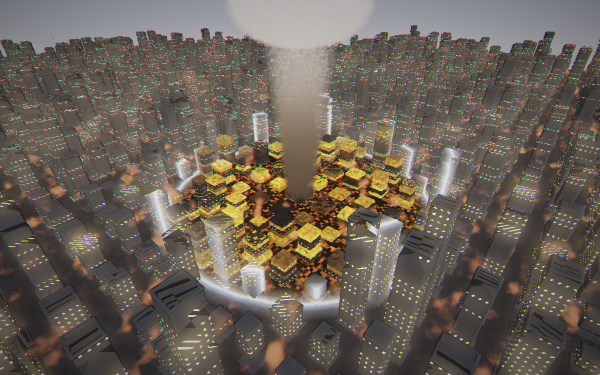
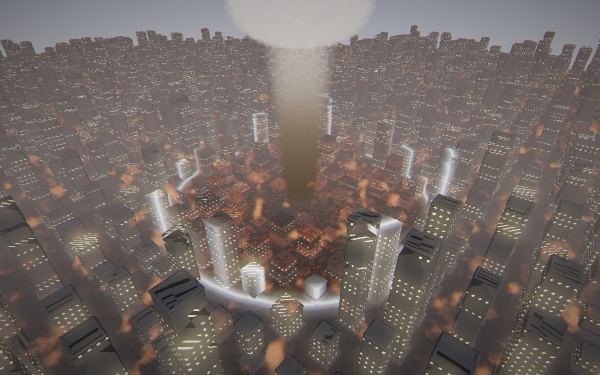
nuke_city+suburb: realism 2 — temperature-graded fires + aerial dust haze
- Fires are now multi-scale (coarse plumes broken by fine cracks) and
  temperature-graded (hot yellow-white cores -> deep-red edges) with flicker, so
  the rubble reads as chaotic burning debris rather than uniform glowing tops.
- Aerial perspective: a subtle warm dust haze thickens with distance (fireball-
  tinted near GZ) so the far skyline recedes into a dusty pall — depth without
  washing out the near burning crater.
- Applies to both nuke_city and nuke_suburb; heroes re-rendered.

Claude-Session: https://claude.ai/code/session_01Sg2M1pJjrHFa9nHHDGVdLP

Changed region(s): [[0.0, 0.0587, 1.0, 0.8507], [0.96, 0.7333, 0.99, 0.7627]]

diff --git a/warp_shaders/blast/render.py b/warp_shaders/blast/render.py
@@ -501,13 +501,18 @@ def render_blast_kernel(img: wp.array2d(dtype=wp.vec3), cam: Camera, sun: wp.vec
             lit = win * wp.step(lh - 0.5) * standing
             wc = wp.vec3(1.0, 0.80, 0.46) + wp.vec3(0.0, 0.06, 0.22) * (lh - 0.5)
             col = col + wc * (lit * 1.9)
-            # collapsed buildings SMOULDER — patchy fires broken up by noise so the
-            # rubble reads as scattered burning debris, not a uniform glowing top
+            # collapsed buildings SMOULDER — multi-scale patchy fires: coarse plumes
+            # broken by fine cracks so the rubble reads as chaotic burning debris,
+            # not a uniform glowing top, and temperature-graded (hot core -> cool edge)
             fh = hash21(wp.vec2(idx * 5.3 - fl * 2.0, idz * 3.7 + fl))
-            turb = wp.clamp(0.35 + 0.75 * fbm_perlin3(p * 0.55, 3), 0.0, 1.0)
-            ember = collapse * wp.smoothstep(0.32, 0.95, fh) * turb
-            fire = wp.vec3(1.0, 0.30, 0.06) + wp.vec3(0.0, 0.36, 0.0) * fh   # deep orange->amber
-            col = col + fire * (ember * 2.7)
+            coarse = wp.clamp(0.35 + 0.8 * fbm_perlin3(p * 0.5, 3), 0.0, 1.0)
+            fine = wp.clamp(0.25 + 0.85 * fbm_perlin3(p * 2.3, 2), 0.0, 1.0)   # cracks
+            ember = collapse * wp.smoothstep(0.30, 0.95, fh) * coarse * fine
+            hot = wp.vec3(1.0, 0.80, 0.42)
+            cool = wp.vec3(0.90, 0.18, 0.04)
+            fire = cool + (hot - cool) * wp.smoothstep(0.16, 0.7, ember)
+            flick = 0.7 + 0.5 * fbm_perlin3(p * 0.9 + wp.vec3(0.0, 0.0, t * 1.7), 2)
+            col = col + fire * (ember * 3.6 * wp.clamp(flick, 0.4, 1.4))
         else:
             n = _gnormal(p[0], p[2])
             street = wp.vec3(0.07, 0.07, 0.08)                # dark asphalt/lawn
@@ -525,11 +530,15 @@ def render_blast_kernel(img: wp.array2d(dtype=wp.vec3), cam: Camera, sun: wp.vec
             fbdir = wp.normalize(burst - p)
             col = col + wp.cw_mul(albedo, fb_glow) * (wp.max(wp.dot(n, fbdir), 0.0)
                                                       * fb_bright * 0.8 / (1.0 + 0.015 * d_gz * d_gz))
-            # the burnt ground smoulders — a patchy field of embers in the scar
+            # the burnt ground smoulders — a multi-scale patchy field of embers
             gh = hash21(wp.vec2(wp.floor(p[0] * 0.7), wp.floor(p[2] * 0.7)))
-            gturb = wp.clamp(0.3 + 0.8 * fbm_perlin3(p * 0.4, 3), 0.0, 1.0)
-            gember = scorch * wp.smoothstep(0.55, 0.95, gh) * gturb
-            col = col + wp.vec3(1.0, 0.26, 0.05) * (gember * 1.4)
+            gcoarse = wp.clamp(0.3 + 0.85 * fbm_perlin3(p * 0.38, 3), 0.0, 1.0)
+            gfine = wp.clamp(0.2 + 0.9 * fbm_perlin3(p * 1.9, 2), 0.0, 1.0)
+            gember = scorch * wp.smoothstep(0.55, 0.95, gh) * gcoarse * gfine
+            ghot = wp.vec3(1.0, 0.62, 0.22)
+            gcool = wp.vec3(0.8, 0.12, 0.02)
+            gfire = gcool + (ghot - gcool) * wp.smoothstep(0.2, 0.7, gember)
+            col = col + gfire * (gember * 1.7)
     else:
         col = _sky(rd, sun, fb_glow)
 
@@ -544,6 +553,15 @@ def render_blast_kernel(img: wp.array2d(dtype=wp.vec3), cam: Camera, sun: wp.vec
         cbl = wp.smoothstep(0.0, 0.5, ringv)
         ring_col = glow_c + (core_c - glow_c) * cbl
         col = col + ring_col * (ringv * 0.7)
+
+    # --- aerial perspective: warm dust haze thickens with distance so the far
+    # skyline recedes into a dusty pall (and is tinted by the fireball near GZ) ---
+    if hit == 1:
+        # subtle — only the far skyline (large t_hit) recedes; the near burning
+        # crater stays clear. Gate out the foreground so fires are not washed.
+        haze = wp.smoothstep(70.0, 230.0, t_hit) * 0.55
+        haze_col = wp.vec3(0.13, 0.11, 0.12) + fb_glow * 0.2
+        col = col * (1.0 - haze) + haze_col * haze
 
     # --- volumetric fireball + mushroom (front-to-back to the opaque hit) ---
     t_end = wp.min(t_hit, 560.0)